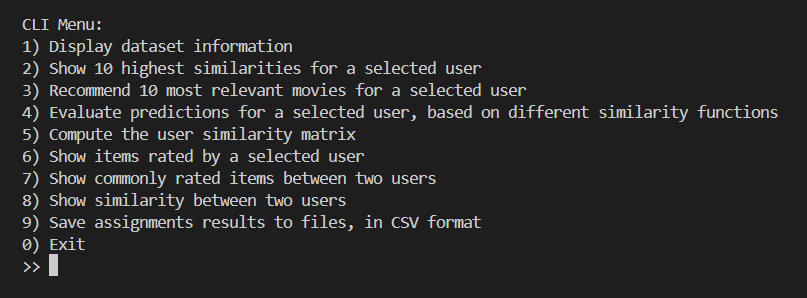
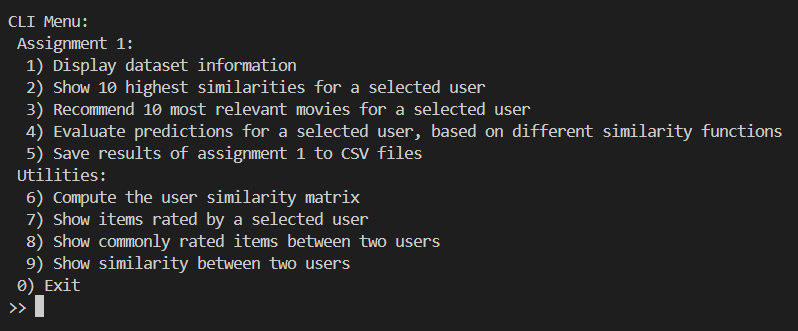
Update README

Changed region(s): [[0.0, 0.0302, 0.9925, 0.9664]]

diff --git a/fairness-group-recommendations/assignment-01/README.md b/fairness-group-recommendations/assignment-01/README.md
@@ -324,15 +324,15 @@ Once launched, the application shows a menu like the following:
 
 Commands from 1 to 4 allow to repeat the assignment tasks from A to E. 
 
-Command 9, if selected, will prompt you to select a user and it will conduct all the assignment tasks on that user, also saving the results on different CSV files in the `assignment-01/results` directory:
+Command 5, if selected, will prompt you to select a user and it will conduct all the assignment tasks on that user, also saving the results on different CSV files in the `results/assignment1` directory:
 - Files named `most_relevant_10_items_for_user_<UserId>_<SimilarityName>.csv` contain the most relevant recommendations for user with id UserId using similarity SimilarityName;
 - Files named `most_similar_10_users_for_user_<UserId>_<SimilarityName>.csv` contain the most similar users for a given user, using the given similarity;
 - Files named `prediction_evaluation_user_<UserId>.csv` contain the result of the evaluation experiment mentioned above on the given user;
 - Files named `user_similarity_matrix_<SimilarityName>.csv` contain the user similarity matrix of the MovieLens 100k dataset for the given similarity.
 
-Command 5 computes the user similarity matrix for the similarity function chosen at application startup. The performances of the matrix computation have been hugely improved during development: the first implementation required approximately 30 minutes to compute PCC matrix on a small laptop, whereas now it takes from 4 to 10 seconds (you can take a look at the commit history to see how the Dataset class has been tweaked to precompute a lot of values). 
+Command 6 computes the user similarity matrix for the similarity function chosen at application startup. The performances of the matrix computation have been hugely improved during development: the first implementation required approximately 30 minutes to compute PCC matrix on a small laptop, whereas now it takes from 4 to 10 seconds (you can take a look at the commit history to see how the Dataset class has been tweaked to precompute a lot of values). 
 
-Commands 6 to 8 are just utilities.
+Commands 7 to 9 are just utilities.
 
 ### Code Organization
 
